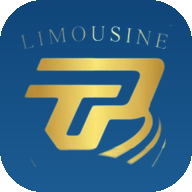
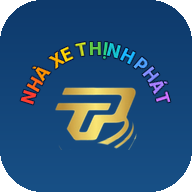
Biểu tượng app: bỏ chữ LIMOUSINE, thêm chữ NHÀ XE THỊNH PHÁT uốn cong 7 màu cầu vồng
Claude-Session: https://claude.ai/code/session_01HmHLoMNYf4UueknpY9saEd

diff --git a/index.html b/index.html
@@ -9,7 +9,7 @@
 <meta name="apple-mobile-web-app-capable" content="yes">
 <meta name="apple-mobile-web-app-title" content="Thịnh Phát">
 <meta name="apple-mobile-web-app-status-bar-style" content="default">
-<link rel="apple-touch-icon" sizes="180x180" href="icons/apple-180.png">
+<link rel="apple-touch-icon" sizes="180x180" href="icons/apple-180.png?v=2">
 
 <link rel="preconnect" href="https://fonts.googleapis.com">
 <link href="https://fonts.googleapis.com/css2?family=Be+Vietnam+Pro:wght@400;500;600;700&amp;display=swap" rel="stylesheet">
@@ -12460,7 +12460,7 @@ Object.assign(PS, {
   async arcGet(ym) { const s = await FB.col().doc('pa_lc_' + ym).get(); return s.exists ? JSON.parse(s.data().d) : []; },
   async arcPut(ym, L) { return FB.col().doc('pa_lc_' + ym).set({ t: 'pa', part: 'vanhanh', ym, at: new Date().toISOString(), d: JSON.stringify(L) }); }
 });
-const APP_BUILD = '2026-11-06T17:15';
+const APP_BUILD = '2026-11-06T17:20';
 /* CSS dùng chung bị lẫn vào module khi tách (hộp xem trước bản in, thanh trên cùng điện thoại; thẻ số liệu, tệp đính kèm sc-*, nhiên liệu nl-*, bảng giá) → trả về lõi */
 addCSS(`.sc-att{display:flex;gap:8px;flex-wrap:wrap;margin-bottom:8px}.sc-a{position:relative;width:76px;height:76px}.sc-a>button:first-child{width:100%;height:100%;border:1px solid #bae6fd;border-radius:10px;background:#f0f9ff;overflow:hidden;padding:0;cursor:pointer;display:grid;place-items:center;color:#dc2626;font-size:14px}.sc-a img{width:100%;height:100%;object-fit:cover}.sc-ax{position:absolute;top:-6px;right:-6px;width:22px;height:22px;border-radius:50%;border:1px solid #cbd5e1;background:#fff;display:grid;place-items:center;cursor:pointer;padding:0;color:#b42318}.sc-ax svg{width:12px;height:12px}
 .sc-bulk{background:#f0f9ff;border:1px solid #bae6fd;border-radius:10px;padding:10px;margin-bottom:8px}.sc-bulk textarea{width:100%;font-family:inherit;font-size:13.5px;line-height:1.5;resize:vertical}.sc-bh{display:flex;gap:6px;align-items:center;margin-top:6px;flex-wrap:wrap}.sc-bulk[hidden]{display:none}
